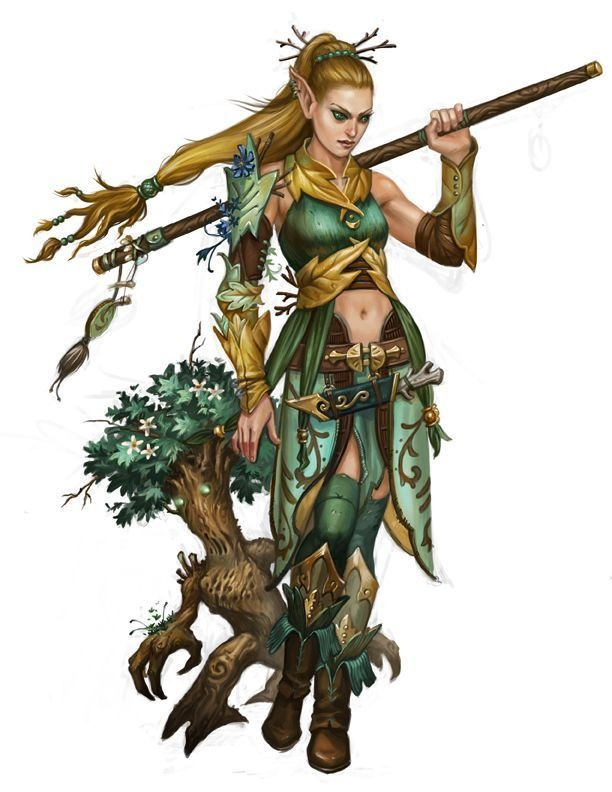
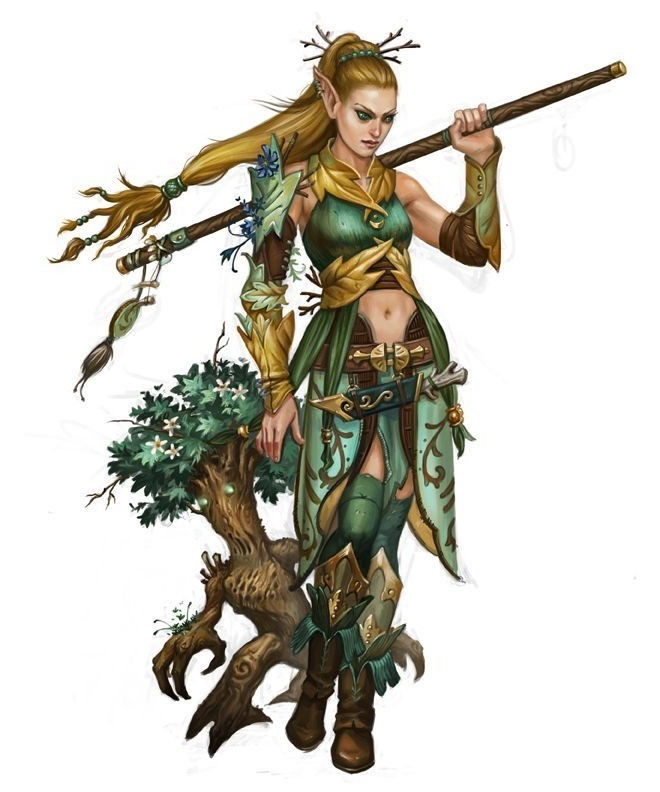
resize bio pictures

Changed region(s): [[0.031, 0.0303, 0.9935, 0.9697], [0.4967, 0.1515, 0.5278, 0.1818], [0.4346, 0.9394, 0.4657, 0.9697]]

diff --git a/src/data/characters.js b/src/data/characters.js
@@ -1,5 +1,6 @@
 import zyllanaAvatar from '../assets/zyllana.jpg';
 import ilroAvatar from '../assets/ilro.jpg';
+import antonAvatar from '../assets/anton.jpg';
 
 const playerLevel = 3;
 
@@ -29,7 +30,7 @@ export const characterBios = {
     race: 'Wood Elf'
   },
   anton: {
-    avatar: '',
+    avatar: antonAvatar,
     alt: '',
     name: 'Anton',
     level: playerLevel,

diff --git a/src/components/CharacterBio/CharacterBio.module.scss b/src/components/CharacterBio/CharacterBio.module.scss
@@ -8,7 +8,7 @@
   figure {
     width: 30%;
     height: fit-content;
-    margin-right: 3rem;
+    margin-right: 2rem;
     position: relative;
 
     img {
